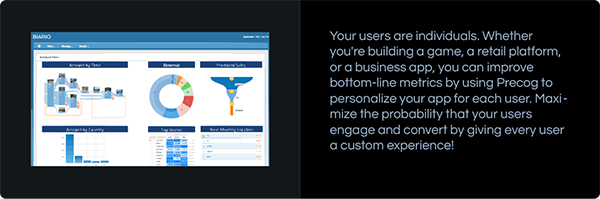
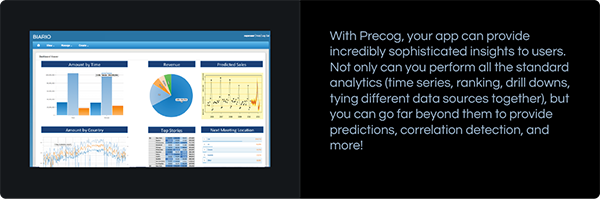
Precog Site Update
Image Replacement And Home Page Fix

Changed region(s): [[0.03, 0.1508, 0.45, 0.8744], [0.54, 0.1508, 0.96, 0.7538]]

diff --git a/index.html b/index.html
@@ -67,7 +67,7 @@
                 </div>
                 <div id="header-apps">
                     <div class="sticker-repl-main-square">
-                        <p>play with our <span class="p-red">repl</span></p>
+                        <p><span class="p-red">play</span> with our</p>
                         <p>analytics api</p>
                     </div>
                     <div id="background-header-image-holder">
@@ -184,12 +184,12 @@
                 <div id="use-case-slider-holder">
                     <ul class="home-usecases">
                         <li>
-                            <h2>DECISION-MAKING</h2>
-                            <img src="images/graphic-usecase-decisionmaking.png" alt="Award">
-                        </li>
-			<li>
                             <h2>INSIGHTS</h2>
                             <img src="images/graphic-usecase-insight.png" alt="Award">
+                        </li>
+                        <li>
+                            <h2>DECISION-MAKING</h2>
+                            <img src="images/graphic-usecase-decisionmaking.png" alt="Award">
                         </li>
 			<li>
                             <h2>PERSONALIZATION</h2>
